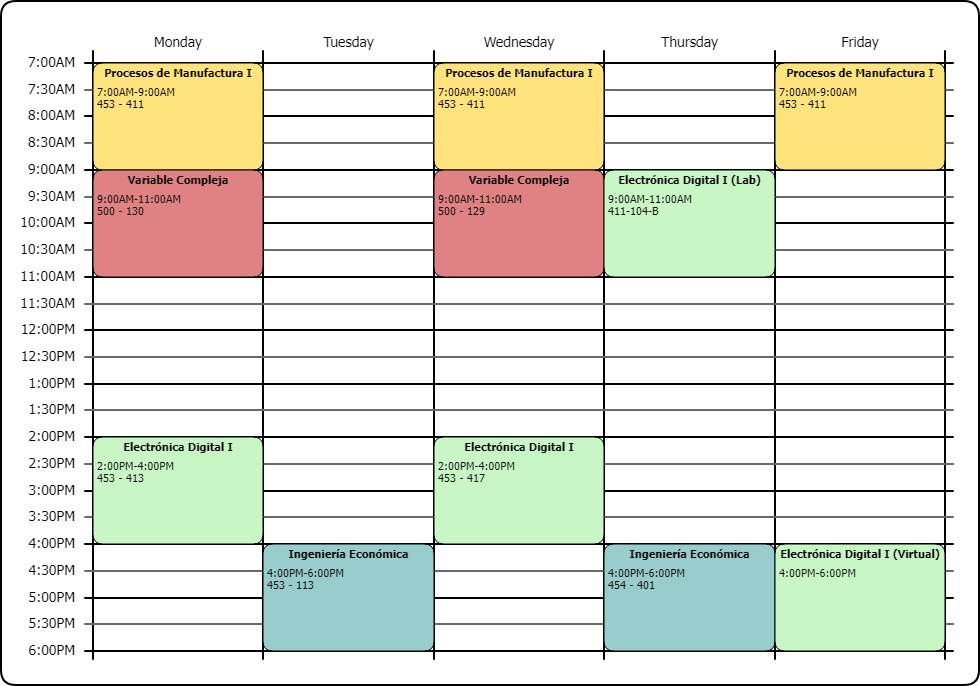
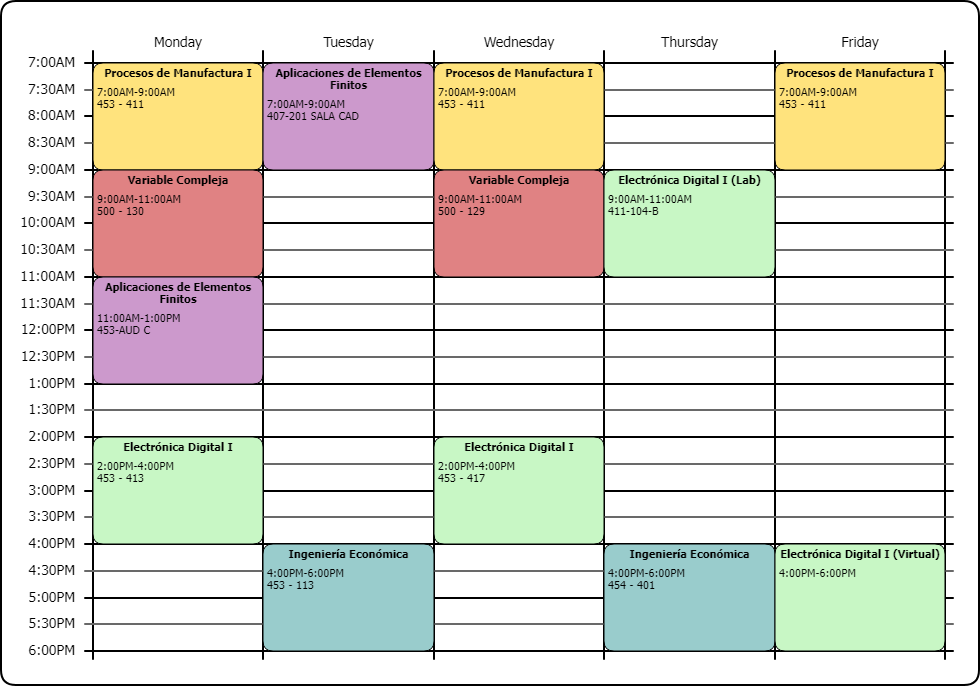
'random-stuff'

Changed region(s): [[0.0918, 0.398, 0.2755, 0.5816], [0.2449, 0.0918, 0.4592, 0.2449]]

diff --git a/meetPages/css/style.css b/meetPages/css/style.css
@@ -44,7 +44,7 @@ color: #0066ff;
 	margin: 50px;
 }
 
-#assignature-tile1, #assignature-tile2, #assignature-tile3, #assignature-tile4, #assignature-tile5, #assignature-tile6 {
+#assignature-tile1, #assignature-tile2, #assignature-tile3, #assignature-tile4, #assignature-tile5, #assignature-tile6, #assignature-tile7 {
 	height: 150px;
 	width: 100%;
   position: relative;
@@ -52,7 +52,7 @@ color: #0066ff;
 	overflow: hidden;
 }
 
-#assignature-tile1:hover, #assignature-tile2:hover, #assignature-tile3:hover, #assignature-tile4:hover, #assignature-tile5:hover, #assignature-tile6:hover {
+#assignature-tile1:hover, #assignature-tile2:hover, #assignature-tile3:hover, #assignature-tile4:hover, #assignature-tile5:hover, #assignature-tile6:hover, #assignature-tile7:hover {
 	box-shadow: 0 1px 5px 1px #cccccc;
 }
 
@@ -81,14 +81,18 @@ color: #0066ff;
 	background-position: center;
 }
 
-
 #assignature-tile6 {
+	background: url('../images/aplFinitos.jpg') no-repeat;
+	background-position: center;
+}
+
+#assignature-tile7 {
 	background: url('../images/uqbar.jpg') no-repeat;
 	background-position: center;
 }
 
 
-#assignature-tile1 span, #assignature-tile2 span, #assignature-tile3 span, #assignature-tile4 span, #assignature-tile5 span, #assignature-tile6 span {
+#assignature-tile1 span, #assignature-tile2 span, #assignature-tile3 span, #assignature-tile4 span, #assignature-tile5 span, #assignature-tile6 span, #assignature-tile7 span {
 	position: absolute;
 	top: 0;
 	left: 0;

diff --git a/meetPages/main.html b/meetPages/main.html
@@ -165,10 +165,33 @@
 			</div>
 
 
+			<div class = "col-md-4 col-sm-6 col-xs-12">
+				
+				<a href = "!#"><div id = "assignature-tile6"><span>Aplicaciones de Elementos Finitos</span></div></a>
+
+			  
+				<div class = "btn-group button-container" role = "group"> 
+				   
+
+				   <button id="btnGroupDrop1" type="button"
+				    class = "btn btn-secondary dropdown-toggle expandable-button"
+				    data-toggle = "dropdown" aria-haspopup = "true" aria-expanded="false">
+				    <span class = "glyphicon glyphicon-link"> Other Links<span class = "arrow glyphicon glyphicon-chevron-down"></span>
+				   </button>
+				    
+			    	<div class="dropdown-menu" aria-labelledby="btnGroupDrop1">
+				      	<ul id = "nav-list" class = "nav navbar-nav navbar-right">
+				      		<li><a class="dropdown-item" href = "!#">Classroom</a></li>
+						</ul>
+			    	</div>
+			    
+			    </div>
+			</div>
+
 
 			<div class = "col-md-4 col-sm-6 col-xs-12">
 				
-				<a href = "https://meet.google.com/gja-ndrg-gcf"><div id = "assignature-tile6"><span>Uqbar</span></div></a>
+				<a href = "https://meet.google.com/gja-ndrg-gcf"><div id = "assignature-tile7"><span>Uqbar</span></div></a>
 
 			  
 				<div class = "btn-group button-container" role = "group"> 
